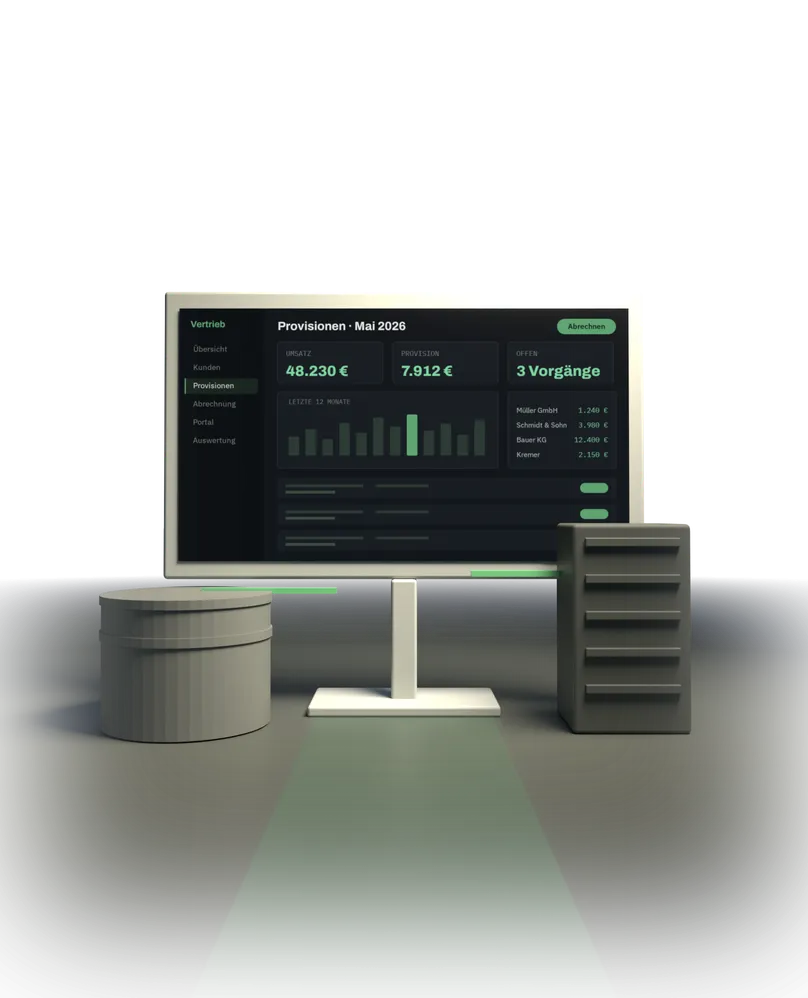
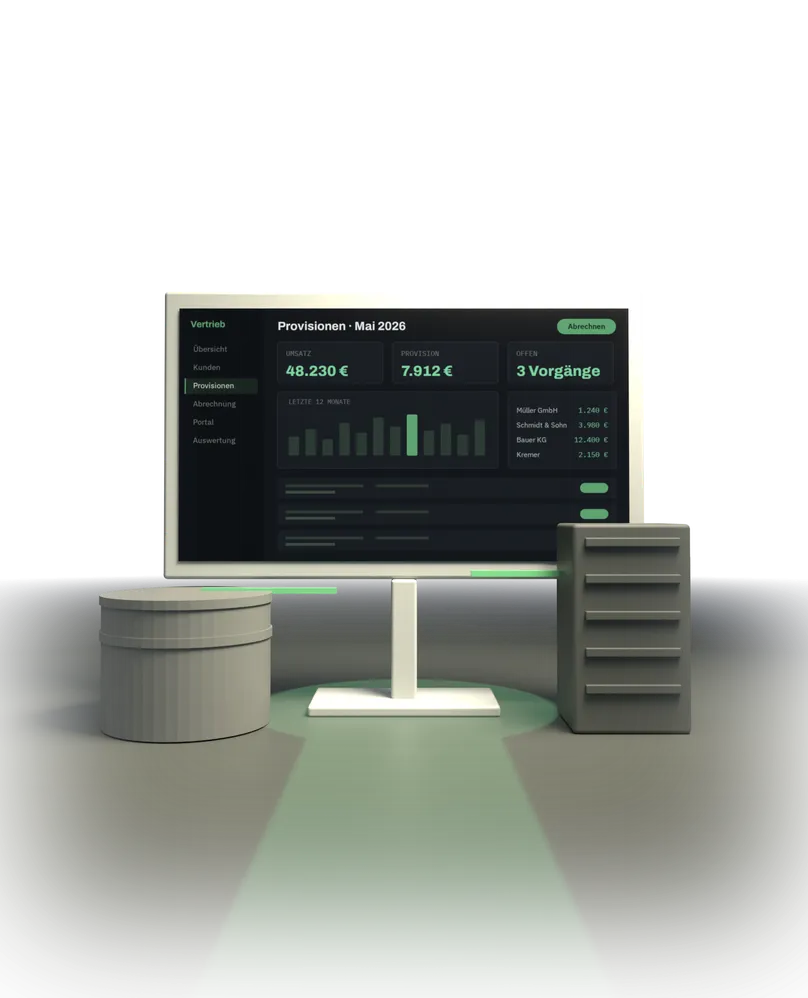
The stills and the poster re-rendered on the K, and the junction test asking what the chips need
The five fallback stills and the poster came from the fan. Re-rendered at 2x
and 128 samples on the letter, and the two poster crops moved to what the
letter puts where: measured by projecting each way's bounds through the
poster camera, the four objects stand at x 475 to 1504 and y 60 to 1119 of
the 1600x1000 frame, so no band shorter than the whole frame holds them and
the fan's band from 0.2 to 0.716 of the height lands on the hub with not one
object in it. The wide picture is the render itself now, which is what
sceneAlt promises. The upright crop keeps its size and moves to 0.27 of the
width and 0.02 of the height, where it holds both monitors whole, which is
what scenePhoneAlt promises.

The junction test asserted the four anchors ran left to right in the order of
the rows. That was a property of the fan's arc. From the map camera the two
ends of the stem stand one above the other, so the four now run care,
website, app, capacity across the screen on a scene that reads perfectly
well. What the chips actually need is that no two land on the same spot, so
that is what the test asks: pairwise at least 60 still pixels, against 191 on
the fan and 210 here.

STILLS_CAP moves from 768 to 800 kB. The twelve files are 753.3 kB, up from
710.5, and the 43 kB is almost all the wide poster growing from 516 rows to
1000.

Changed region(s): [[0.3094, 0.6212, 0.7116, 0.9008], [0.0619, 0.2796, 0.3403, 0.7455]]

diff --git a/web/src/components/crossroads/stills.ts b/web/src/components/crossroads/stills.ts
@@ -25,23 +25,23 @@ export const STILLS: Record<StillKey, Still> = {
     src2x: '/crossroads/junction@2x.webp',
     marks: {
       website: {
-        x: 116,
-        y: 409,
+        x: 329,
+        y: 296,
         on: true,
       },
       app: {
-        x: 307,
-        y: 398,
+        x: 539,
+        y: 288,
         on: true,
       },
       capacity: {
-        x: 501,
-        y: 466,
+        x: 691,
+        y: 698,
         on: true,
       },
       care: {
-        x: 694,
-        y: 387,
+        x: 292,
+        y: 664,
         on: true,
       },
     },
@@ -56,18 +56,18 @@ export const STILLS: Record<StillKey, Still> = {
         on: true,
       },
       app: {
-        x: 1555,
-        y: -1,
+        x: 2291,
+        y: 146,
         on: false,
       },
       capacity: {
-        x: 81782,
-        y: 519,
+        x: -240,
+        y: 492,
         on: false,
       },
       care: {
-        x: -1416,
-        y: 888,
+        x: 405,
+        y: 616,
         on: false,
       },
     },
@@ -77,23 +77,23 @@ export const STILLS: Record<StillKey, Still> = {
     src2x: '/crossroads/app@2x.webp',
     marks: {
       website: {
-        x: -429,
-        y: 239,
+        x: 5405,
+        y: 1587,
         on: false,
       },
       app: {
-        x: 385,
-        y: 227,
+        x: 379,
+        y: 231,
         on: true,
       },
       capacity: {
-        x: 1340,
+        x: -1416,
         y: 515,
         on: false,
       },
       care: {
-        x: 5996,
-        y: -862,
+        x: -32,
+        y: 638,
         on: false,
       },
     },
@@ -103,23 +103,23 @@ export const STILLS: Record<StillKey, Still> = {
     src2x: '/crossroads/capacity@2x.webp',
     marks: {
       website: {
-        x: -3094,
-        y: -256,
+        x: 868,
+        y: 501,
         on: false,
       },
       app: {
-        x: -447,
-        y: 73,
+        x: 2292,
+        y: 652,
         on: false,
       },
       capacity: {
-        x: 412,
+        x: 409,
         y: 402,
         on: true,
       },
       care: {
-        x: 1139,
-        y: 79,
+        x: -11174,
+        y: 3686,
         on: false,
       },
     },
@@ -129,23 +129,23 @@ export const STILLS: Record<StillKey, Still> = {
     src2x: '/crossroads/care@2x.webp',
     marks: {
       website: {
-        x: 2892,
-        y: 940,
+        x: 404,
+        y: 633,
         on: false,
       },
       app: {
-        x: -7160,
-        y: -1241,
+        x: 1084,
+        y: 655,
         on: false,
       },
       capacity: {
-        x: -426,
+        x: -1100,
         y: 530,
         on: false,
       },
       care: {
-        x: 408,
-        y: 233,
+        x: 407,
+        y: 234,
         on: true,
       },
     },

diff --git a/web/src/components/crossroads/index.tsx b/web/src/components/crossroads/index.tsx
@@ -621,23 +621,25 @@ export function Crossroads({
 
                   Rendered from the same Blender scene as the five stills by
                   tools/blender/emit-stills.mjs rather than drawn, so it cannot
-                  end up describing a world the site stopped having, and 16 kB
-                  of WebP for the upright crop or 21 for the strip against the
-                  198 kB the five stills weigh at 1x.
+                  end up describing a world the site stopped having, and 29 kB
+                  of WebP for the upright crop or 53 for the wide one against
+                  the 217 kB the five stills weigh at 1x.
                   Rendered only in the fallback, so a laptop that gets the real
-                  thing never fetches it, and not on a phone at all: a 1600x516
-                  strip at 327px wide is 105px tall, and nothing in it is
-                  identifiable at that size. It reads as a dark banner, which is
-                  worse than no picture. */}
+                  thing never fetches it. The wide picture used to be a 1600x516
+                  band across the fan, which at 327px wide was 105px tall and
+                  read as a dark banner rather than a place. On the K the four
+                  objects stand at the ends of the letter and span the whole
+                  1000px frame, so the wide picture is the whole render, 1.6 to
+                  1, and at 327px it is 204px tall. */}
               {enhanced ? null : (
                 <picture>
-                  {/* Two crops of one render, chosen by width. The strip is
-                      1600x516 and at 327px it is 105px tall, where nothing in
-                      it is identifiable and it reads as a dark banner, which is
-                      why it used to be hidden below `sm`, and why the services
-                      section then had no picture at all on the device most
-                      visitors use. The upright crop holds the landing page and
-                      the dashboard at about three times that width.
+                  {/* One render in two shapes, chosen by width. The wide one
+                      is the whole 1600x1000 frame, the letter with a way at
+                      each of its four ends. The upright crop is 880x657 of the
+                      same frame, the two monitors at the top of the K, which
+                      is what a phone can still make anything of: the same
+                      objects arrive about three times as wide there as they do
+                      in the picture beside the copy.
 
                       <source> rather than two <img>s, so the browser fetches one
                       file and not both, and the alt text belongs to the <img>

diff --git a/web/tests/unit/crossroads-stills.spec.ts b/web/tests/unit/crossroads-stills.spec.ts
@@ -51,7 +51,31 @@ test('the junction names all four, and a close-up names only its own way', () =>
   }
 });
 
-test('at the junction the four labels stand left to right in the order of the rows', () => {
-  const xs = WAYS.map((way) => STILLS.junction.marks[way].x);
-  expect([...xs].sort((a, b) => a - b)).toEqual(xs);
+test('at the junction no two labels stand on top of each other', () => {
+  /**
+   * The property the chips need, and all of it.
+   *
+   * This used to assert the four anchors ran left to right in the order of
+   * the rows, which held on the fan because the fan was an arc across the
+   * frame. The floor plan is the mark's own K now, and from the map camera
+   * the far and near ends of the stem stand one above the other: measured on
+   * these stills the four run care, website, app, capacity across the screen,
+   * so an ordering test would fail on a scene that is perfectly readable.
+   *
+   * What actually matters is that two chips never land on the same spot. 60
+   * still pixels is a little over a chip's own height and comfortably under
+   * what the layouts give: the closest pair was 191 px on the fan stills and
+   * is 210 px on the K, website to app, both far side of the bar.
+   */
+  for (let a = 0; a < WAYS.length; a++) {
+    for (let b = a + 1; b < WAYS.length; b++) {
+      const p = STILLS.junction.marks[WAYS[a]!];
+      const q = STILLS.junction.marks[WAYS[b]!];
+      const apart = Math.hypot(p.x - q.x, p.y - q.y);
+      expect(
+        apart,
+        `${WAYS[a]} and ${WAYS[b]} stand ${Math.round(apart)} px apart`,
+      ).toBeGreaterThanOrEqual(60);
+    }
+  }
 });
